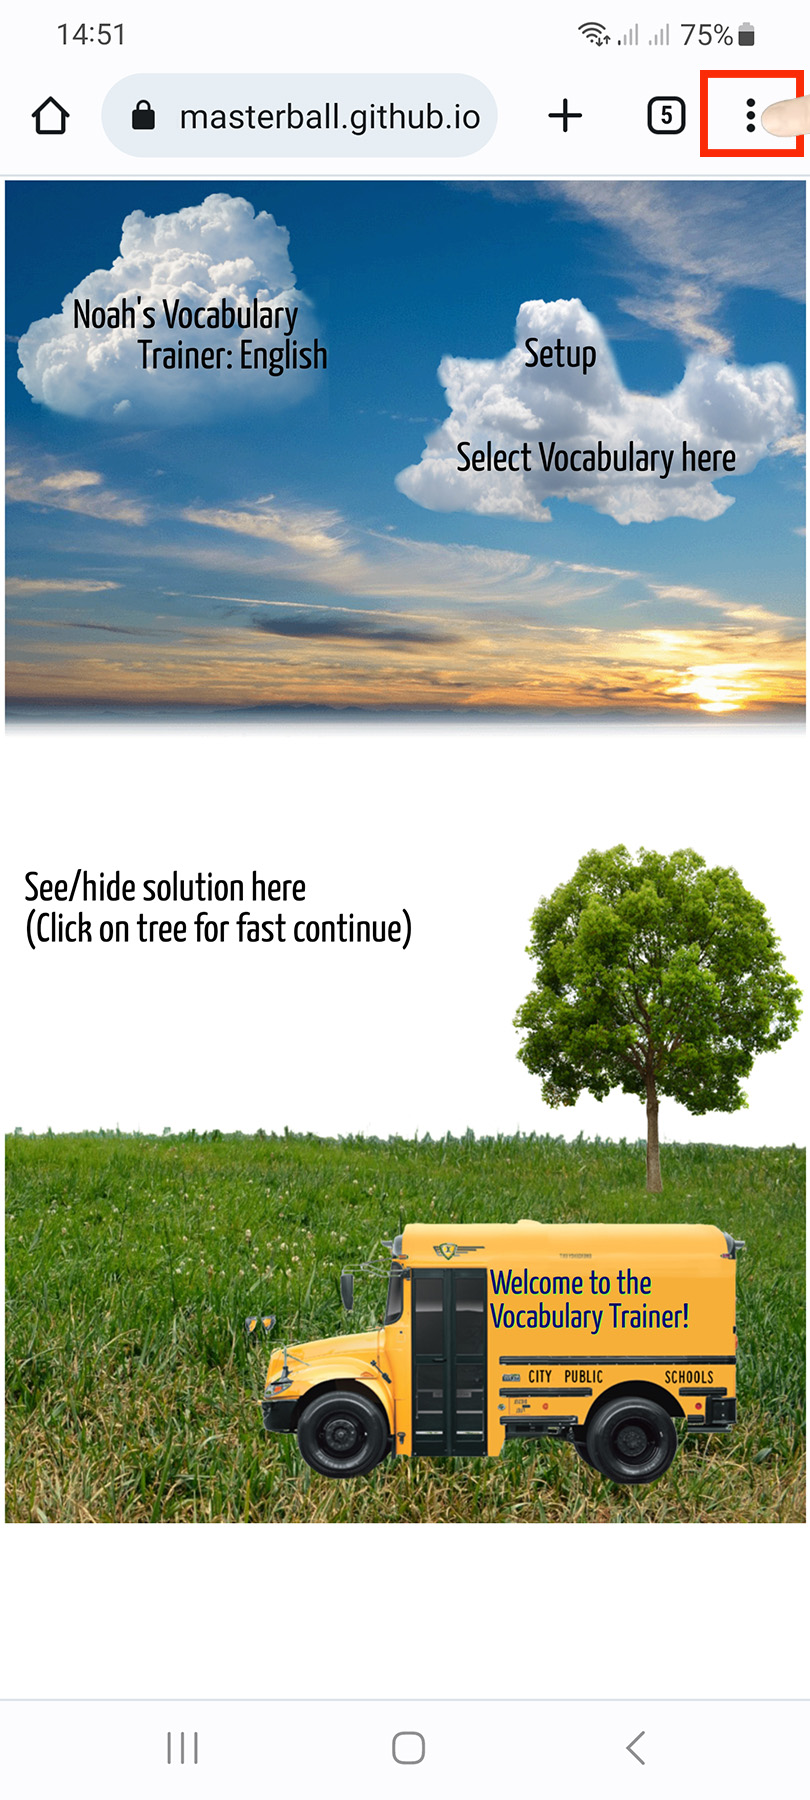
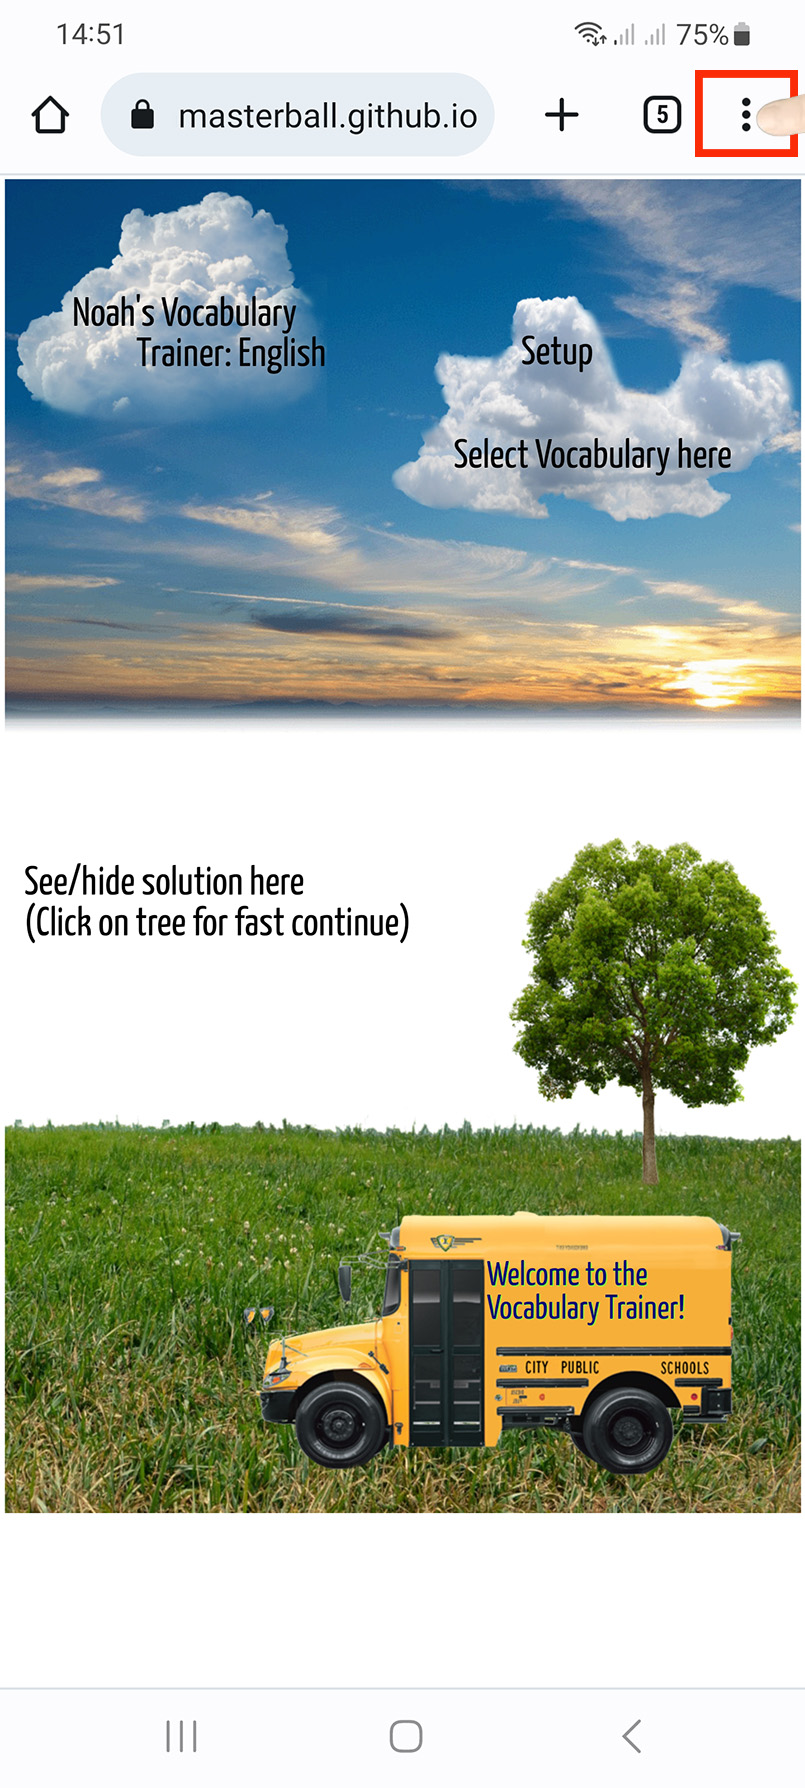
pic menu height fix

diff --git a/index/style.css b/index/style.css
@@ -62,37 +62,28 @@ body {
   width: 95%;
   padding: 4% 2%;
   box-sizing: border-box;
-  height: 65vh;
+  height: 60vh;
+  max-height: calc(60vw);
 }
 
 .box2 {
   flex: 1;
-  overflow: hidden;
   transition: 1s;
+  overflow: hidden;
+
   margin: 0 2%;
   box-shadow: 0 20px 30px rgba(0, 0, 0, 0.3);
-  line-height: 0;
   border-radius: 7px;
 }
 
 .box2 > img {
   width: 100%;
-
   object-fit: cover;
   transition: 1s;
 }
 
 .box2:hover {
   flex: 1 1 auto;
-}
-
-.box22:hover > img {
-  height: 80%;
-  object-fit: cover;
-  object-position: 100% 100%;
-  transform-origin: right top;
-  object-position: right top;
-  cursor: zoom-in;
 }
 
 .box2:hover > img {
@@ -127,12 +118,23 @@ body {
 }
 
 .box2 > span {
-  font-size: 3.8vh;
+  font-size: 2.5vh;
   color: #000000;
   display: block;
   text-align: center;
-  height: 10vh;
+  height: 100px;
   line-height: 2.5;
+  white-space: nowrap;
+}
+
+.box2 #mobile3t,
+.box2 #mobile4t {
+  padding-top: 11px;
+}
+
+.box2:hover #mobile3t,
+.box2:hover #mobile4t {
+  padding-top: 0px;
 }
 
 .box2:hover > span {
